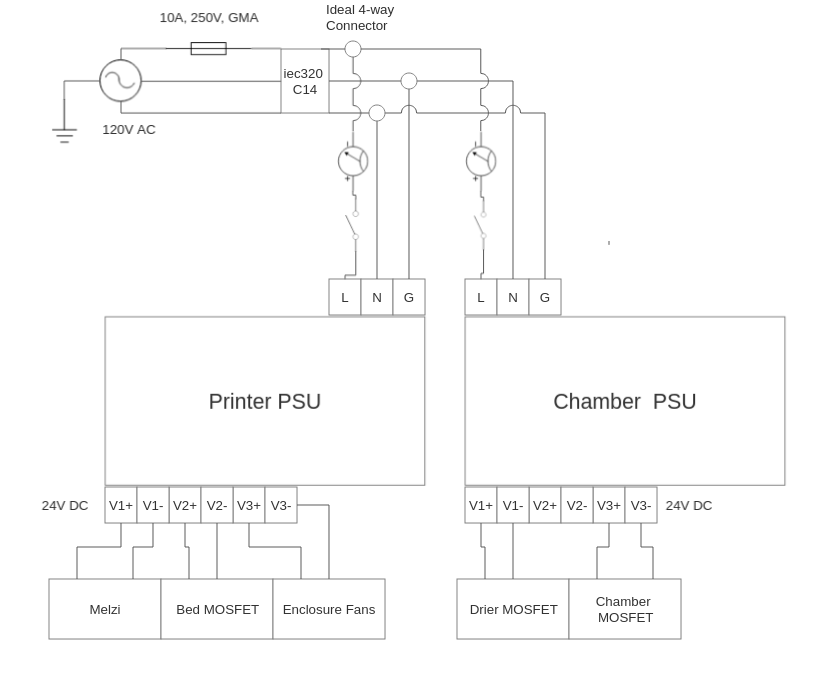
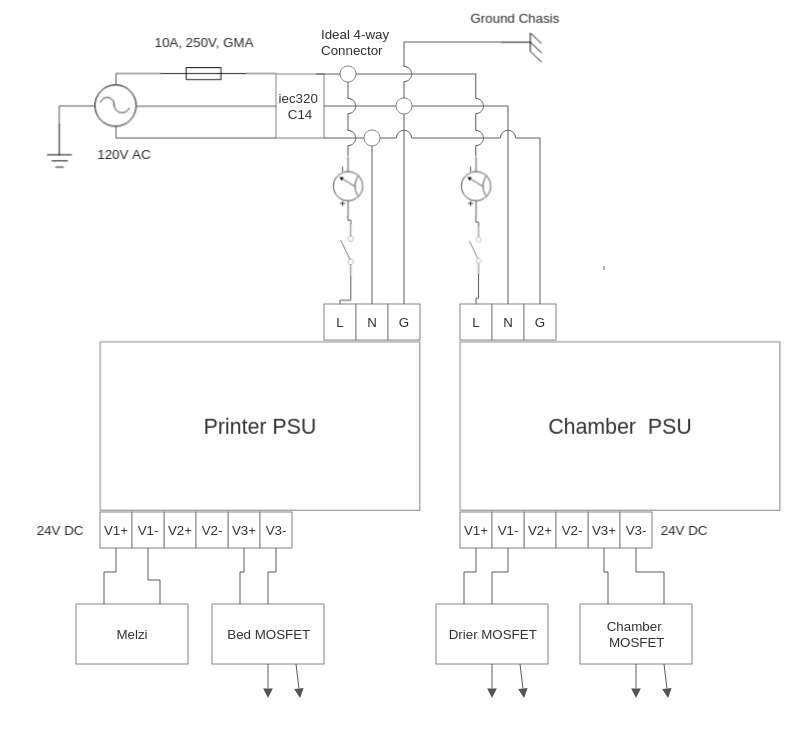
..

diff --git a/Printer_Mods/Electronic_Enclosure/README.md b/Printer_Mods/Electronic_Enclosure/README.md
@@ -7,13 +7,13 @@
 * Measure power draw
 * Electric components, especially main board and its pinouts should be "easily" accesible
     * Will encorpaerate a method "sliding" base plates that secucre components
-    * Main ports on Melzy should be mapped to JST connectors embedded into the frame of the enclosure for quick connect and disconnect (even unused )
+    * Main ports on Melzi should be mapped to JST connectors embedded into the frame of the enclosure for quick connect and disconnect (even unused )
 * All wiring should be evaluated for current draw and proper gauge wire shall be used
 * Enclosure should have quick connects to quickly disconnect all wires going to the printer.
 
-# PSU Wiring Diagrams
+# PSU and MOSFET Wiring Diagrams
 
-Power supply wiring diagram. The 10A GMA fuse is integrated into the iec320 AC plug. **NOTE** Forgot to include ground connection from PSUs to frame of enclosure. The Ground ideal connector will have a 3rd output going to the chasis of the enclosure. Printer frame will also be grounded to enclosure chasis. Ground connectors to chasis will be ring connectors.
+Power supply wiring diagram. The 10A GMA fuse is integrated into the iec320 AC plug. 
 
 ![Alt text](Datasheets/Power_Supply_Wiring.png)
 
@@ -23,26 +23,21 @@ Power supply wiring diagram. The 10A GMA fuse is integrated into the iec320 AC p
 | Neutral iec320 | Neutral Ideal Connector | Female Disconnect | Bare (push in) | 120V AC | 1000W + | 12 gauge (rated to 20A AC or 2400W) |
 | Ground iec320 | Ground Ideal Connector | Female Disconnect | Bare (push in) | 120V AC | 1000W + | 12 gauge (rated to 20A AC or 2400W) |
 | Live Ideal Connector | Printer Switch | Bare (push in) | Female Disconnect | 120V AC | 500W + | 16 gauge (rated to 10A AC or 1200W) |
-| Live Ideal Connector | Chamber Switch | Bare (push in) | Female Disconnect | 120V AC | 1000W + | 16 gauge (rated to 10A AC or 1200W) |
+| Live Ideal Connector | Chamber Switch | Bare (push in) | Female Disconnect | 120V AC | 5000W + | 16 gauge (rated to 10A AC or 1200W) |
 | Printer Switch | Printer PSU Live terminal | Female Disconnect | Spade connector (8 to 10 stud size) | 120V AC | 500W + | 16 gauge (rated to 10A AC or 1200W) |
 | Chamber Switch | Chamber PSU Live terminal | Female Disconnect | Spade connector (8 to 10 stud size) | 120V AC | 500W + | 16 gauge (rated to 10A AC or 1200W) |
 | Neutral Ideal Connector | Printer PSU Neutral Terminal | Bare (push in) | Spade connector (8 to 10 stud size) | 120V AC | 500W + | 16 gauge (rated to 10A AC or 1200W) |
 | Neutral Ideal Connector | Chamber PSU Neutral Terminal | Bare (push in) | Spade connector (8 to 10 stud size) | 120V AC | 500W + | 16 gauge (rated to 10A AC or 1200W) |
 | Ground Ideal Connector | Printer PSU Ground Terminal | Bare (push in) | Spade connector (8 to 10 stud size) | 120V AC | 500W + | 16 gauge (rated to 10A AC or 1200W) |
 | Ground Ideal Connector | Ground PSU Neutral Terminal | Bare (push in) | Spade connector (8 to 10 stud size) | 120V AC | 500W + | 16 gauge (rated to 10A AC or 1200W) |
-| Printer V1+ | Melzi +Input | Spade connector (8 to 10 stud size) | Bare (screw down) | 24V DC | **ASSUME** <240W | 16 gauge (rated to 10A DC or 240W) |
-| Printer V1- | Melzi -Input | Spade connector (8 to 10 stud size) | Bare (screw down) | 24V DC | **ASSUME** <240W | 16 gauge (rated to 10A DC or 240W) |
-| Printer V2+ | Bed MOSFET +Input | Spade connector (8 to 10 stud size) | Bare (screw down) | 24V DC | **ASSUME** <500W | 12 gauge (rated to 20A DC or 480W) |
-| Printer V2- | Bed MOSFET -Input | Spade connector (8 to 10 stud size) | Bare (screw down) | 24V DC | **ASSUME** <500W | 12 gauge (rated to 20A DC or 480W) |
-| Printer V3+ | Fans +Input | Spade connector (8 to 10 stud size) | ?? | 24V DC | ?? | ?? |
-| Printer V3- | Fans -Input | Spade connector (8 to 10 stud size) | ?? | 24V DC | ?? | ?? |
-| Chamber V1+ | Drier MOSFET +Input | Spade connector (8 to 10 stud size) | Bare (screw down) | 24V DC | **ASSUME** <500W | 12 gauge (rated to 20A DC or 480W) |
-| Chamber V2- | Drier MOSFET -Input | Spade connector (8 to 10 stud size) | Bare (screw down) | 24V DC | **ASSUME** <500W | 12 gauge (rated to 20A DC or 480W) |
-| Chamber V2+ | Chamber MOSFET +Input | Spade connector (8 to 10 stud size) | Bare (screw down) | 24V DC | **ASSUME** <500W | 12 gauge (rated to 20A DC or 480W) |
-| Chamber V2- | Chamber MOSFET -Input | Spade connector (8 to 10 stud size) | Bare (screw down) | 24V DC | **ASSUME** <500W | 12 gauge (rated to 20A DC or 480W) |
-
-
-# MOSFET and Enclosure Fan Wiring
+| Ground Ideal Connector | Chasis | Bare (push in) | .25in ring connector | 120V AC | 1000W + | 12 gauge (rated to 10A AC or 1200W) |
+| Printer V1+/- | Melzi +/- Input | Spade connector (8 to 10 stud size) | Bare (screw down) | 24V DC |  <240W | 16 gauge (rated to 10A DC or 240W) |
+| Printer V3+/- | Bed MOSFET +/- Input | Spade connector (8 to 10 stud size) | Bare (screw down) | 24V DC | 500W + | 12 gauge (rated to 20A DC or 480W) |
+| Chamber V1+/- | Drier MOSFET +/- Input | Spade connector (8 to 10 stud size) | Bare (screw down) | 24V DC | 150W | 16 gauge (rated to 10A DC or 240W) |
+| Chamber V3+/- | Chamber MOSFET +/- Input | Spade connector (8 to 10 stud size) | Bare (screw down) | 24V DC | ??? | ??? |
+| Bed MOSFET Output +/- | Terminal Connector | Bare (screw down) | 24V DC | 500W + | 12 gauge (rated to 20A DC or 480W) |
+| Drier MOSFET Output +/- | Terminal Connector | Bare (screw down) | 24V DC | 150W | 16 gauge (rated to 10A DC or 240W) |
+| Chamber MOSFET Output +/- | Terminal Connector | Bare (screw down) | 24V DC | ??? | ??? |
 
 # Melzi Wiring, Connectors, and Pinouts
  | Connector | ATmega2560 Pins | Connector Type (board side) | Connector Type (target side) |
@@ -58,7 +53,7 @@ Power supply wiring diagram. The 10A GMA fuse is integrated into the iec320 AC p
 | 12mm M3 Bolts | 16 | To secure fans to fan plate |
 | 8mm M4 bolts | 8 | To secure PSUs to bottom plate |
 | 16mm M3 Bolts + spaces + nuts | 17 | To secure melzi and MOSFET boards to bottom plates |
-| 40x40x10 fans | 4 | https://www.amazon.com/dp/B088665SKK?psc=1&ref=ppx_yo2ov_dt_b_product_details | 
+| 40x40x10 fans | 4 | At 24V, .07A draw. https://www.amazon.com/dp/B088665SKK?psc=1&ref=ppx_yo2ov_dt_b_product_details | 
 | Additional NTC Thermistors | 5 | https://www.amazon.com/dp/B0714MR5BC?psc=1&ref=ppx_yo2ov_dt_b_product_details |
 | PTC heater (filament dehydrator) | 1 at 150W | https://www.amazon.com/dp/B07JKNKK7J?psc=1&ref=ppx_yo2ov_dt_b_product_details |
 | PTC heater (chamber heater) | 1-2 at 150-250W | - |
